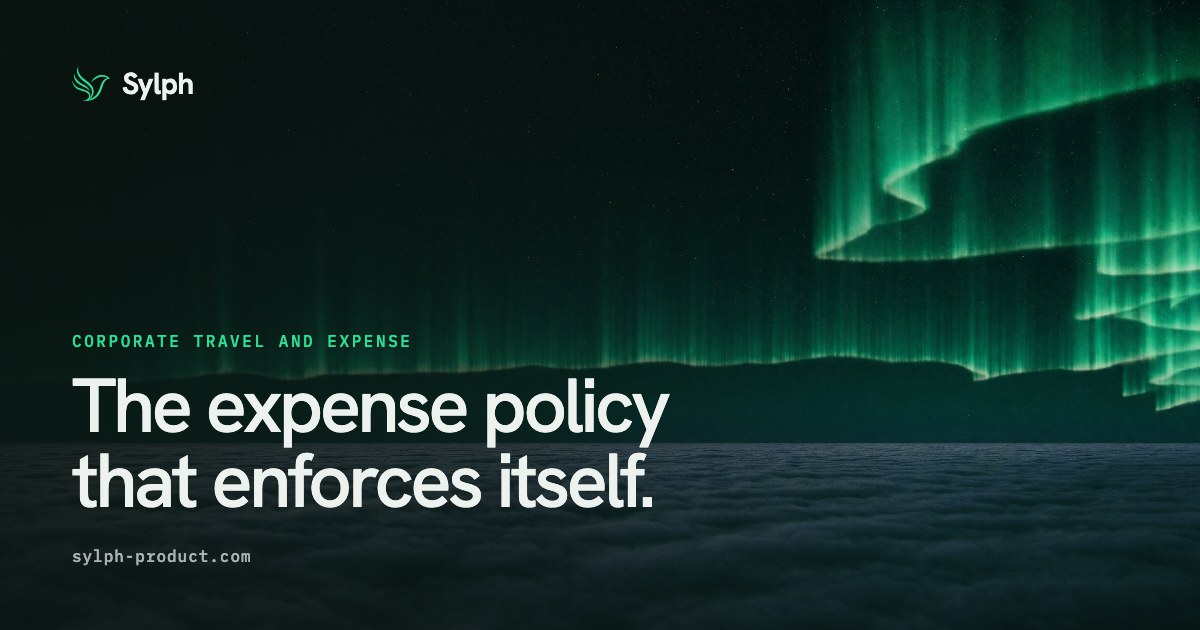
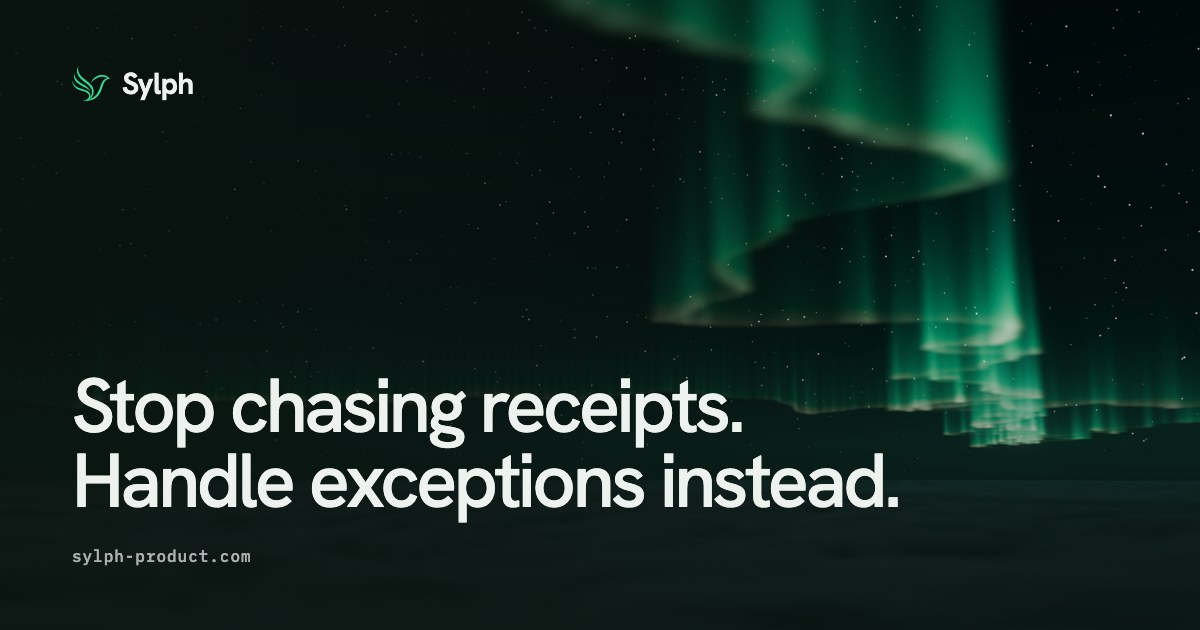
Changed: the page title, search description and social card use the new headline, "Stop chasing receipts. Handle exceptions instead." (the card is re-rendered on the tilted night-flight render)

Changed region(s): [[0.0617, 0.0, 1.0, 0.9048], [0.6475, 0.6333, 0.7092, 0.6635]]

diff --git a/sylph-product-site/src/app/page.tsx b/sylph-product-site/src/app/page.tsx
@@ -3,9 +3,9 @@ import { Landing } from "@/components/custom/landing/landing";
 
 /* The landing (2026-10-05 redesign, components/custom/landing; docs/plans/2026-10-05-landing-redesign.md).
    The social card is app/opengraph-image.jpg. */
-const TITLE = "Sylph: the expense policy that enforces itself";
+const TITLE = "Sylph: Stop chasing receipts. Handle exceptions instead.";
 const DESCRIPTION =
-  "Write your travel and expense policy once, in plain English. Sylph checks every receipt, card swipe and booking against it, and shows finance only what breaks a rule. Works with the cards and banks you already use.";
+  "Sylph checks every card swipe, receipt and booking against your policy as it happens, so finance stops chasing receipts and handles only the exceptions.";
 
 const SITE_URL = process.env.NEXT_PUBLIC_SITE_URL ?? "https://sylph-product.com";
 
